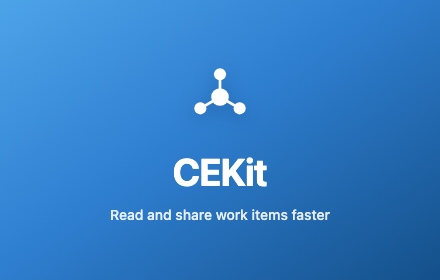
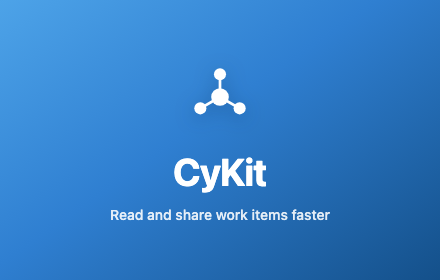
Rename to CyKit Extension
Drops "Cybozu" from the product name. It is the company's trademark, and a
listing called "Cybozu Extension Kit" reads as an official product no matter
what the description disclaims — the disclaimer never removed that risk, only
the name does.

kintone and Garoon stay in the description: naming the products an extension
works with is descriptive, and unavoidable if the listing is to say what it
does. The icon was never a Cybozu asset.

Renames the identifiers with it — style ids, dataset keys, log prefix, zip
name — so nothing still says cekit.

Changed region(s): [[0.3841, 0.5429, 0.5909, 0.6857]]

diff --git a/src/content/features/font-metrics.ts b/src/content/features/font-metrics.ts
@@ -88,16 +88,16 @@ function isActive(m: Metrics): boolean {
  * recorded, so restoring never clobbers an inline style we did not set.
  */
 function override(el: HTMLElement, prop: 'font-size' | 'font-weight', value: string): void {
-  const key = prop === 'font-size' ? 'cekitFs' : 'cekitFw'
-  el.dataset.cekitText = '1'
+  const key = prop === 'font-size' ? 'cykitFs' : 'cykitFw'
+  el.dataset.cykitText = '1'
   if (el.dataset[key] === undefined) el.dataset[key] = el.style.getPropertyValue(prop)
   el.style.setProperty(prop, value, 'important')
 }
 
 function restore(el: HTMLElement): void {
   for (const [key, prop] of [
-    ['cekitFs', 'font-size'],
-    ['cekitFw', 'font-weight'],
+    ['cykitFs', 'font-size'],
+    ['cykitFw', 'font-weight'],
   ] as const) {
     const saved = el.dataset[key]
     if (saved === undefined) continue
@@ -105,7 +105,7 @@ function restore(el: HTMLElement): void {
     else el.style.removeProperty(prop)
     delete el.dataset[key]
   }
-  delete el.dataset.cekitText
+  delete el.dataset.cykitText
   if (el.getAttribute('style') === '') el.removeAttribute('style')
 }
 
@@ -119,8 +119,8 @@ function restore(el: HTMLElement): void {
  * parent and is correctly skipped.
  */
 function pass(root: HTMLElement, m: Metrics): void {
-  for (const el of root.querySelectorAll<HTMLElement>('[data-cekit-text]')) restore(el)
-  if (root.dataset.cekitText) restore(root)
+  for (const el of root.querySelectorAll<HTMLElement>('[data-cykit-text]')) restore(el)
+  if (root.dataset.cykitText) restore(root)
   if (!isActive(m)) return
 
   // SVG elements are not HTMLElement, so they drop out here along with their
@@ -142,7 +142,7 @@ function pass(root: HTMLElement, m: Metrics): void {
   const total = scalable.length + iconLike.length
   if (total > SLOW_PASS_ELEMENTS && !warnedSlow) {
     warnedSlow = true
-    console.debug(`[CEKit] font metrics pass over ${total} elements`)
+    console.debug(`[CyKit] font metrics pass over ${total} elements`)
   }
 
   // Read pass — no writes, so style is resolved once. Icon-like elements are

diff --git a/src/content/features/github-copy.ts b/src/content/features/github-copy.ts
@@ -17,8 +17,8 @@ import type { Settings } from '../../shared/types'
  * on the clipboard.
  */
 
-const BUTTON_ID = 'cekit-gh-copy'
-const STYLE_ID = 'cekit-gh-copy-style'
+const BUTTON_ID = 'cykit-gh-copy'
+const STYLE_ID = 'cykit-gh-copy-style'
 
 /** How long the button shows its confirmation before going back to "Copy". */
 const CONFIRM_MS = 1400
@@ -133,7 +133,7 @@ function buildButton(): HTMLButtonElement {
   button.id = BUTTON_ID
   button.type = 'button'
   button.textContent = 'Copy'
-  button.title = 'Copy title and link (CEKit)'
+  button.title = 'Copy title and link (CyKit)'
 
   button.addEventListener('click', (event) => {
     event.preventDefault()

diff --git a/store/promo-tile.html b/store/promo-tile.html
@@ -1,5 +1,5 @@
 <!doctype html><meta charset=utf-8>
-<title>CEKit promo tile 440x280</title>
+<title>CyKit promo tile 440x280</title>
 <!--
   Small promotional tile, 440x280. The store guidance asks for saturated
   colour, well-defined edges and little text, and warns that an item without
@@ -25,5 +25,5 @@
   <circle cx="73.4" cy="63.5" r="7.2"  fill="#fff"/>
   <circle cx="26.6" cy="63.5" r="7.2"  fill="#fff"/>
 </svg>
-<div class=name>CEKit</div>
+<div class=name>CyKit</div>
 <div class=tag>Read and share work items faster</div>

diff --git a/src/popup/App.tsx b/src/popup/App.tsx
@@ -42,8 +42,8 @@ export function App() {
         <div className="brand">
           <img src="icons/icon-48.png" alt="" width={26} height={26} />
           <span>
-            CEKit
-            <span className="hint">Cybozu Extension Kit</span>
+            CyKit
+            <span className="hint">Quality-of-life tweaks</span>
           </span>
         </div>
 

diff --git a/src/content/features/font.ts b/src/content/features/font.ts
@@ -2,7 +2,7 @@ import { buildFontCss } from '../../shared/css'
 import { isInScope } from '../../shared/scope'
 import type { Settings } from '../../shared/types'
 
-const STYLE_ID = 'cekit-font'
+const STYLE_ID = 'cykit-font'
 
 let styleEl: HTMLStyleElement | null = null
 

diff --git a/vite.config.content.ts b/vite.config.content.ts
@@ -13,7 +13,7 @@ export default defineConfig({
     sourcemap: false,
     lib: {
       entry: resolve(import.meta.dirname, 'src/content/index.ts'),
-      name: 'CEKit',
+      name: 'CyKit',
       formats: ['iife'],
       fileName: () => 'content.js',
     },

diff --git a/popup.html b/popup.html
@@ -3,7 +3,7 @@
   <head>
     <meta charset="utf-8" />
     <meta name="viewport" content="width=device-width, initial-scale=1" />
-    <title>Cybozu Extension Kit</title>
+    <title>CyKit Extension</title>
   </head>
   <body>
     <div id="root"></div>

diff --git a/src/content/index.ts b/src/content/index.ts
@@ -21,7 +21,7 @@ function applyAll(settings: Settings): void {
     try {
       feature(settings)
     } catch (err) {
-      console.error('[CEKit] feature failed', err)
+      console.error('[CyKit] feature failed', err)
     }
   }
 }

diff --git a/store/listing.md b/store/listing.md
@@ -1,4 +1,4 @@
-# Chrome Web Store listing — CEKit
+# Chrome Web Store listing — CyKit
 
 Copy/paste source for the Developer Dashboard. Keep the single-purpose framing:
 lead with the purpose, then the features that serve it. Do not open with a list
@@ -9,7 +9,7 @@ of the three sites — that reads as a multi-purpose extension.
 ## Name
 
 ```
-Cybozu Extension Kit (CEKit)
+CyKit Extension
 ```
 
 ## Short description (132 char limit — currently 130)
@@ -43,14 +43,14 @@ headless Chromium (see `store/screenshots/README.md`).
 ## Detailed description
 
 ```
-CEKit removes the small, everyday friction in reading and sharing work items
+CyKit removes the small, everyday friction in reading and sharing work items
 across the tools an engineering team uses all day.
 
 Two things slow that down. Interface text that is too small or too thin to read
 comfortably for hours. And re-typing a ticket title and link every time you
 need to quote a pull request somewhere else.
 
-CEKit fixes both.
+CyKit fixes both.
 
 READABLE TEXT ON KINTONE AND GAROON
 
@@ -81,7 +81,7 @@ BUILT TO STAY OUT OF THE WAY
 • Every feature has its own on/off switch. Turn one off and the page goes
   straight back to normal.
 
-CEKit is an independent, unofficial project. It is not affiliated with,
+CyKit is an independent, unofficial project. It is not affiliated with,
 endorsed by, or sponsored by Cybozu, Inc. or GitHub, Inc. "Cybozu", "kintone",
 and "Garoon" are trademarks of Cybozu, Inc.
 ```
@@ -96,7 +96,7 @@ separate field in the **Privacy practices** tab of the item's edit page.
 ### Single purpose description
 
 ```
-CEKit has one purpose: to reduce the friction of reading and quoting work items in a team's daily tools.
+CyKit has one purpose: to reduce the friction of reading and quoting work items in a team's daily tools.
 
 On kintone and Garoon it replaces the interface font and rescales text size and weight, so the interface stays readable during a long working day. On GitHub pull request and issue pages it adds a Copy button that places the item's title and canonical link on the clipboard — which is exactly the text that gets pasted back into those same work items.
 

diff --git a/README.md b/README.md
@@ -1,4 +1,4 @@
-# Cybozu Extension Kit (CEKit)
+# CyKit Extension
 
 A Chrome extension (Manifest V3) with quality-of-life tweaks for Cybozu products —
 kintone, Garoon, and the cybozu.com portal.
@@ -66,7 +66,7 @@ the font-family in CSS, `font-metrics.ts` scales size and weight in JS.
 
 ### Family (`src/content/features/font.ts`)
 
-`src/content/features/font.ts` injects a single `<style id="cekit-font">`
+`src/content/features/font.ts` injects a single `<style id="cykit-font">`
 element and rewrites its contents whenever settings change — no page reload
 needed. The CSS is generated by `src/shared/css.ts`:
 
@@ -134,7 +134,7 @@ Four details that each cost a bug:
   kill-inline-block-whitespace trick still used in parts of kintone; flooring it
   to 12px would push that whitespace back into the layout.
 
-Original inline `style` values are saved in `data-cekit-fs` / `data-cekit-fw` and
+Original inline `style` values are saved in `data-cykit-fs` / `data-cykit-fw` and
 restored verbatim when the feature is turned off.
 
 New DOM is handled by a `MutationObserver` (120 ms debounce, and past 40 roots
@@ -295,7 +295,7 @@ pnpm bump          # patch by default; also `pnpm bump minor` / `major`
 pnpm package       # builds, zips dist/, and checks the archive
 ```
 
-Then upload `cekit-<version>.zip` in the developer dashboard and submit. The
+Then upload `cykit-<version>.zip` in the developer dashboard and submit. The
 listing text, images and permission justifications persist between updates, so
 only the package changes.
 

diff --git a/PRIVACY.md b/PRIVACY.md
@@ -1,13 +1,13 @@
-# Privacy Policy — Cybozu Extension Kit (CEKit)
+# Privacy Policy — CyKit Extension
 
 _Last updated: 2026-08-13_
 
-**CEKit does not collect, transmit, or sell any data.** It has no analytics, no
+**CyKit does not collect, transmit, or sell any data.** It has no analytics, no
 telemetry, no accounts, and no server of its own.
 
 ## What the extension can access
 
-CEKit runs only on the sites listed in its manifest:
+CyKit runs only on the sites listed in its manifest:
 
 - `*.cybozu.com`, `*.kintone.com`, `*.cybozu.cn`, `*.kintone.cn`,
   `*.cybozu-dev.com`
@@ -32,7 +32,7 @@ Your feature settings — chosen font, size, weight, and which products each
 feature applies to — are stored with `chrome.storage.sync`. That is Chrome's
 own settings storage. If you have Chrome Sync enabled, Chrome synchronises it
 through your Google Account so your settings follow you between devices; this
-is done by Chrome, not by CEKit, and the authors never receive it. No page
+is done by Chrome, not by CyKit, and the authors never receive it. No page
 content, browsing history, or personal data is stored.
 
 You can erase everything by removing the extension.

diff --git a/CLAUDE.md b/CLAUDE.md
@@ -2,7 +2,7 @@
 
 ## Project
 
-**Cybozu Extension Kit** (CEKit) — a Manifest V3 Chrome extension with quality-of-life tweaks for
+**CyKit Extension** (CyKit) — a Manifest V3 Chrome extension with quality-of-life tweaks for
 kintone. See README.md for architecture and how to add a feature.
 
 Two Vite builds, because MV3 content scripts cannot be ES modules:
